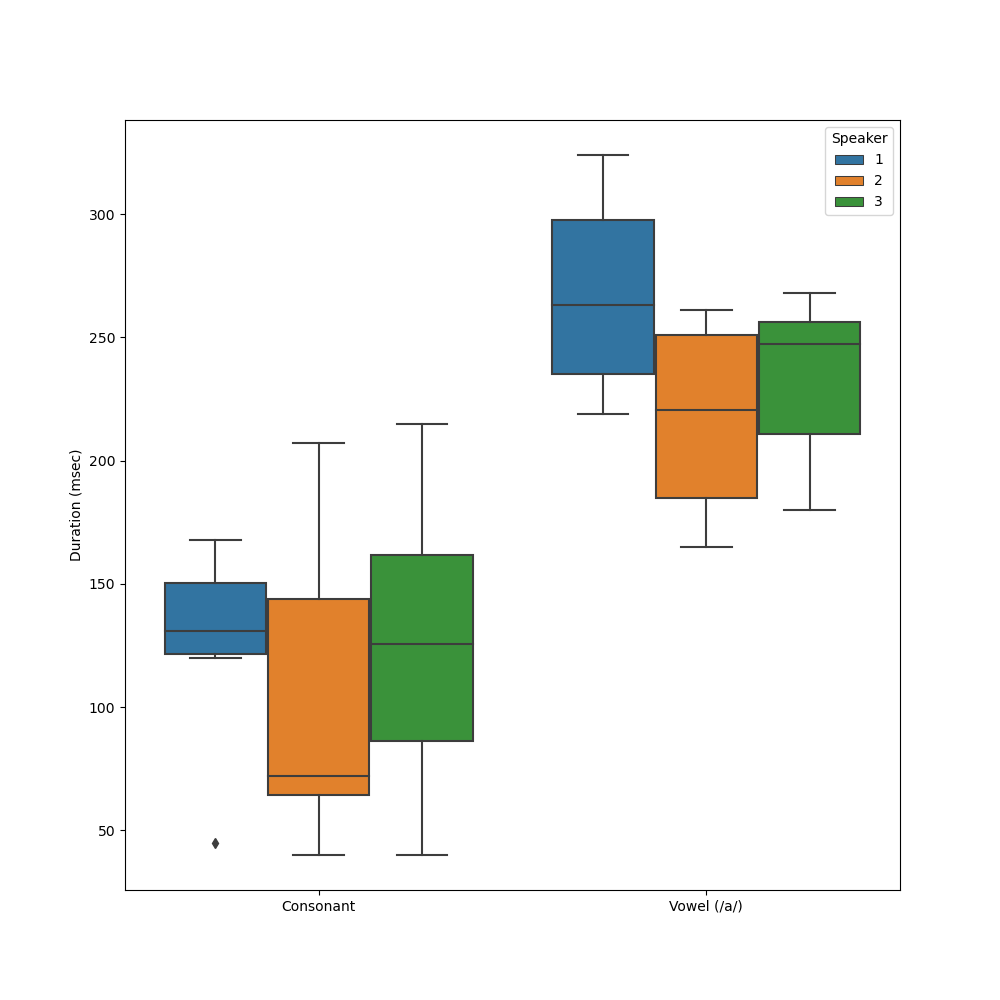
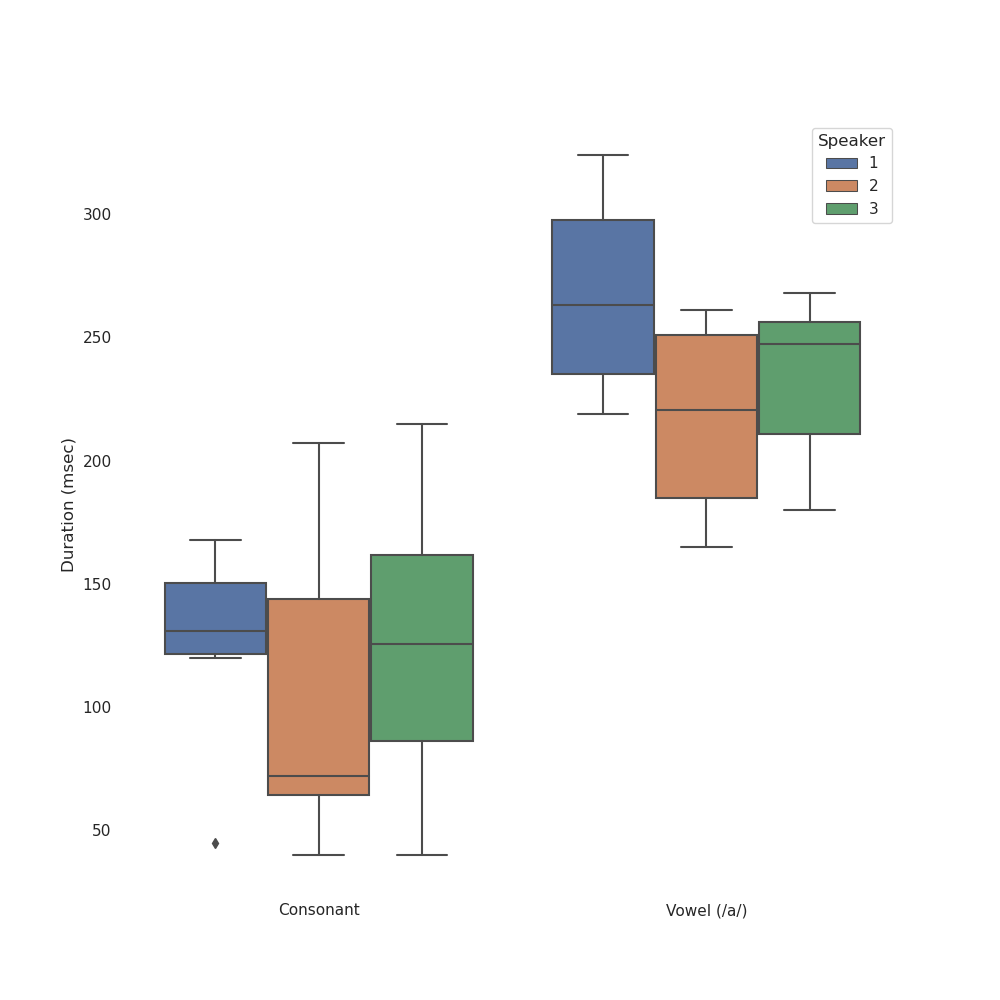
code for dist figures

diff --git a/code/generate_dists_acoustic_properties.py b/code/generate_dists_acoustic_properties.py
@@ -22,6 +22,7 @@ for index, row in df2.iterrows():
 
 df = df.astype({'Speaker': 'int32'})
 # Plot CV properties
+# sns.set(rc={'axes.facecolor':'white', 'figure.facecolor':'white'})
 df_temp = df.loc[(df['consonant_vowel'] == 'consonant') & (df['Measure'].isin(['consonant duration', 'vowel duration']))]
 fig, ax = plt.subplots(figsize=(10,10))
 sns.boxplot(x="Measure", y="Duration (msec)", hue='Speaker', data=df_temp, ax=ax)
@@ -39,6 +40,7 @@ fig, ax = plt.subplots(figsize=(10,10))
 sns.boxplot(x="Measure", y="Duration (msec)", hue='Speaker', data=df_temp, ax=ax)
 # sns.swarmplot(x="measure", y="value", hue='speaker', data=df, color=".25", ax=ax)
 # Cosmetics and save
+ax.set_xticklabels(['Vowel'])
 ax.set_xlabel('')
 sns.set(font_scale=1)
 plt.savefig('../figures/V_acoustic_properties.png')
